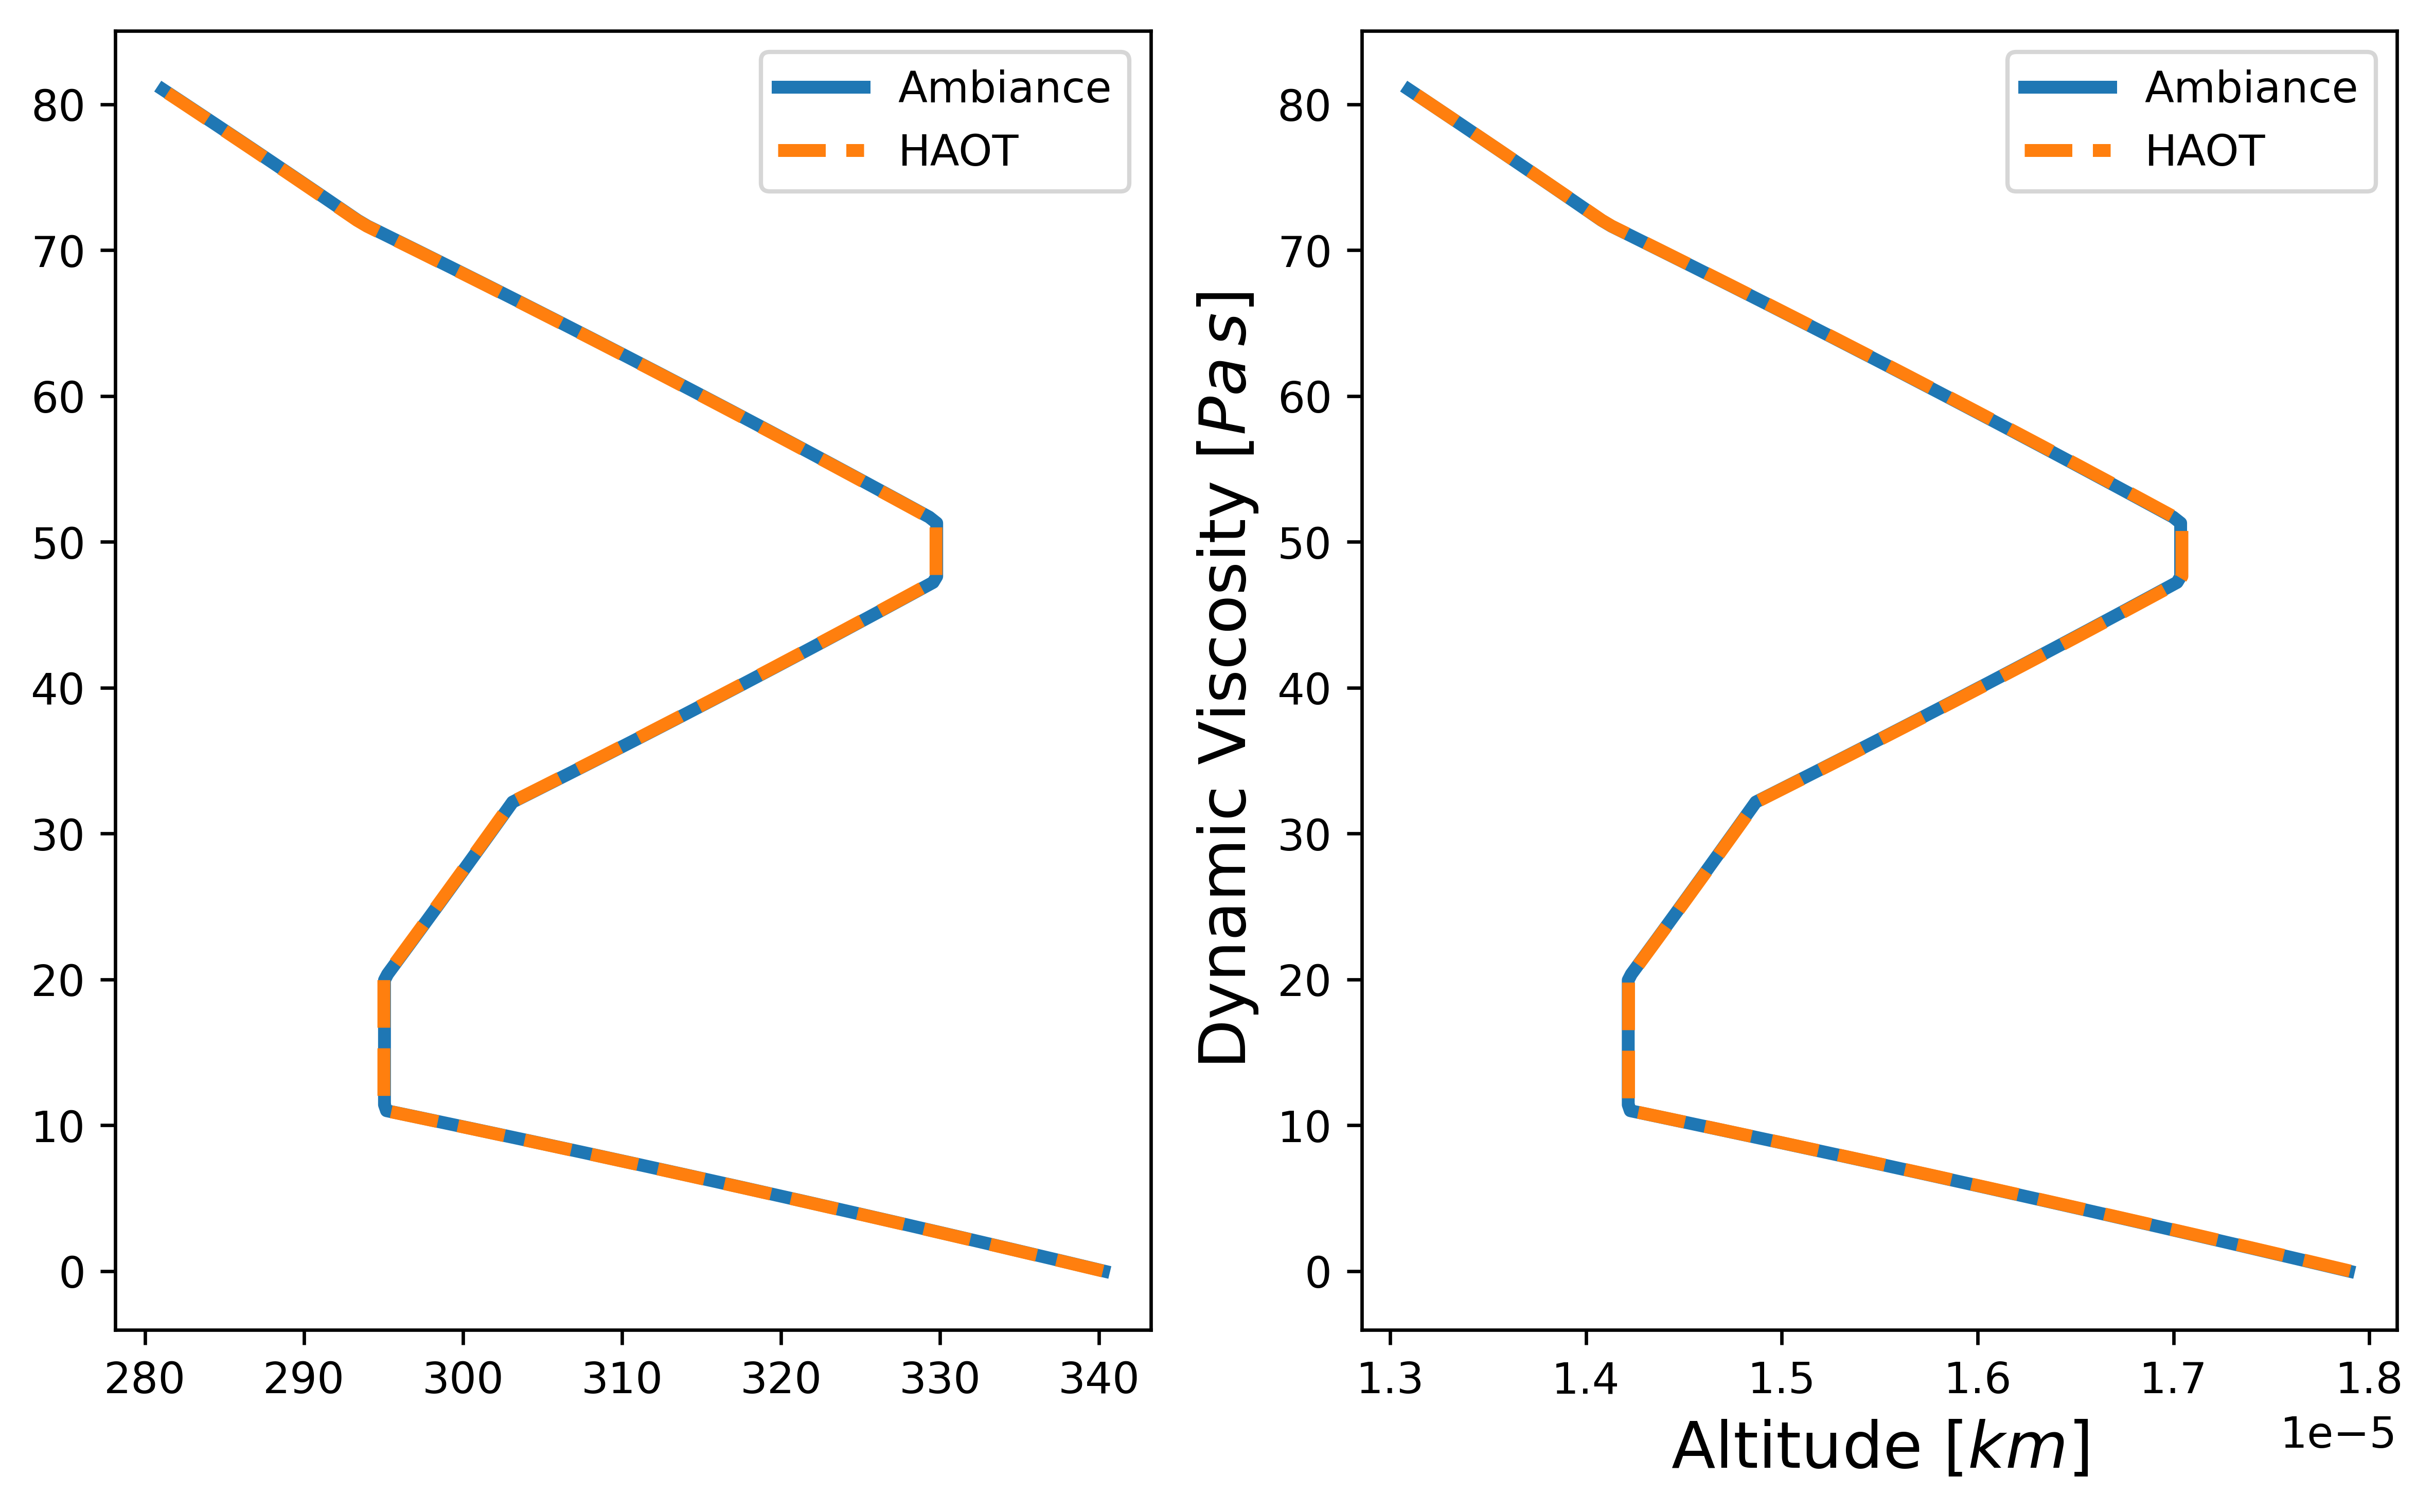
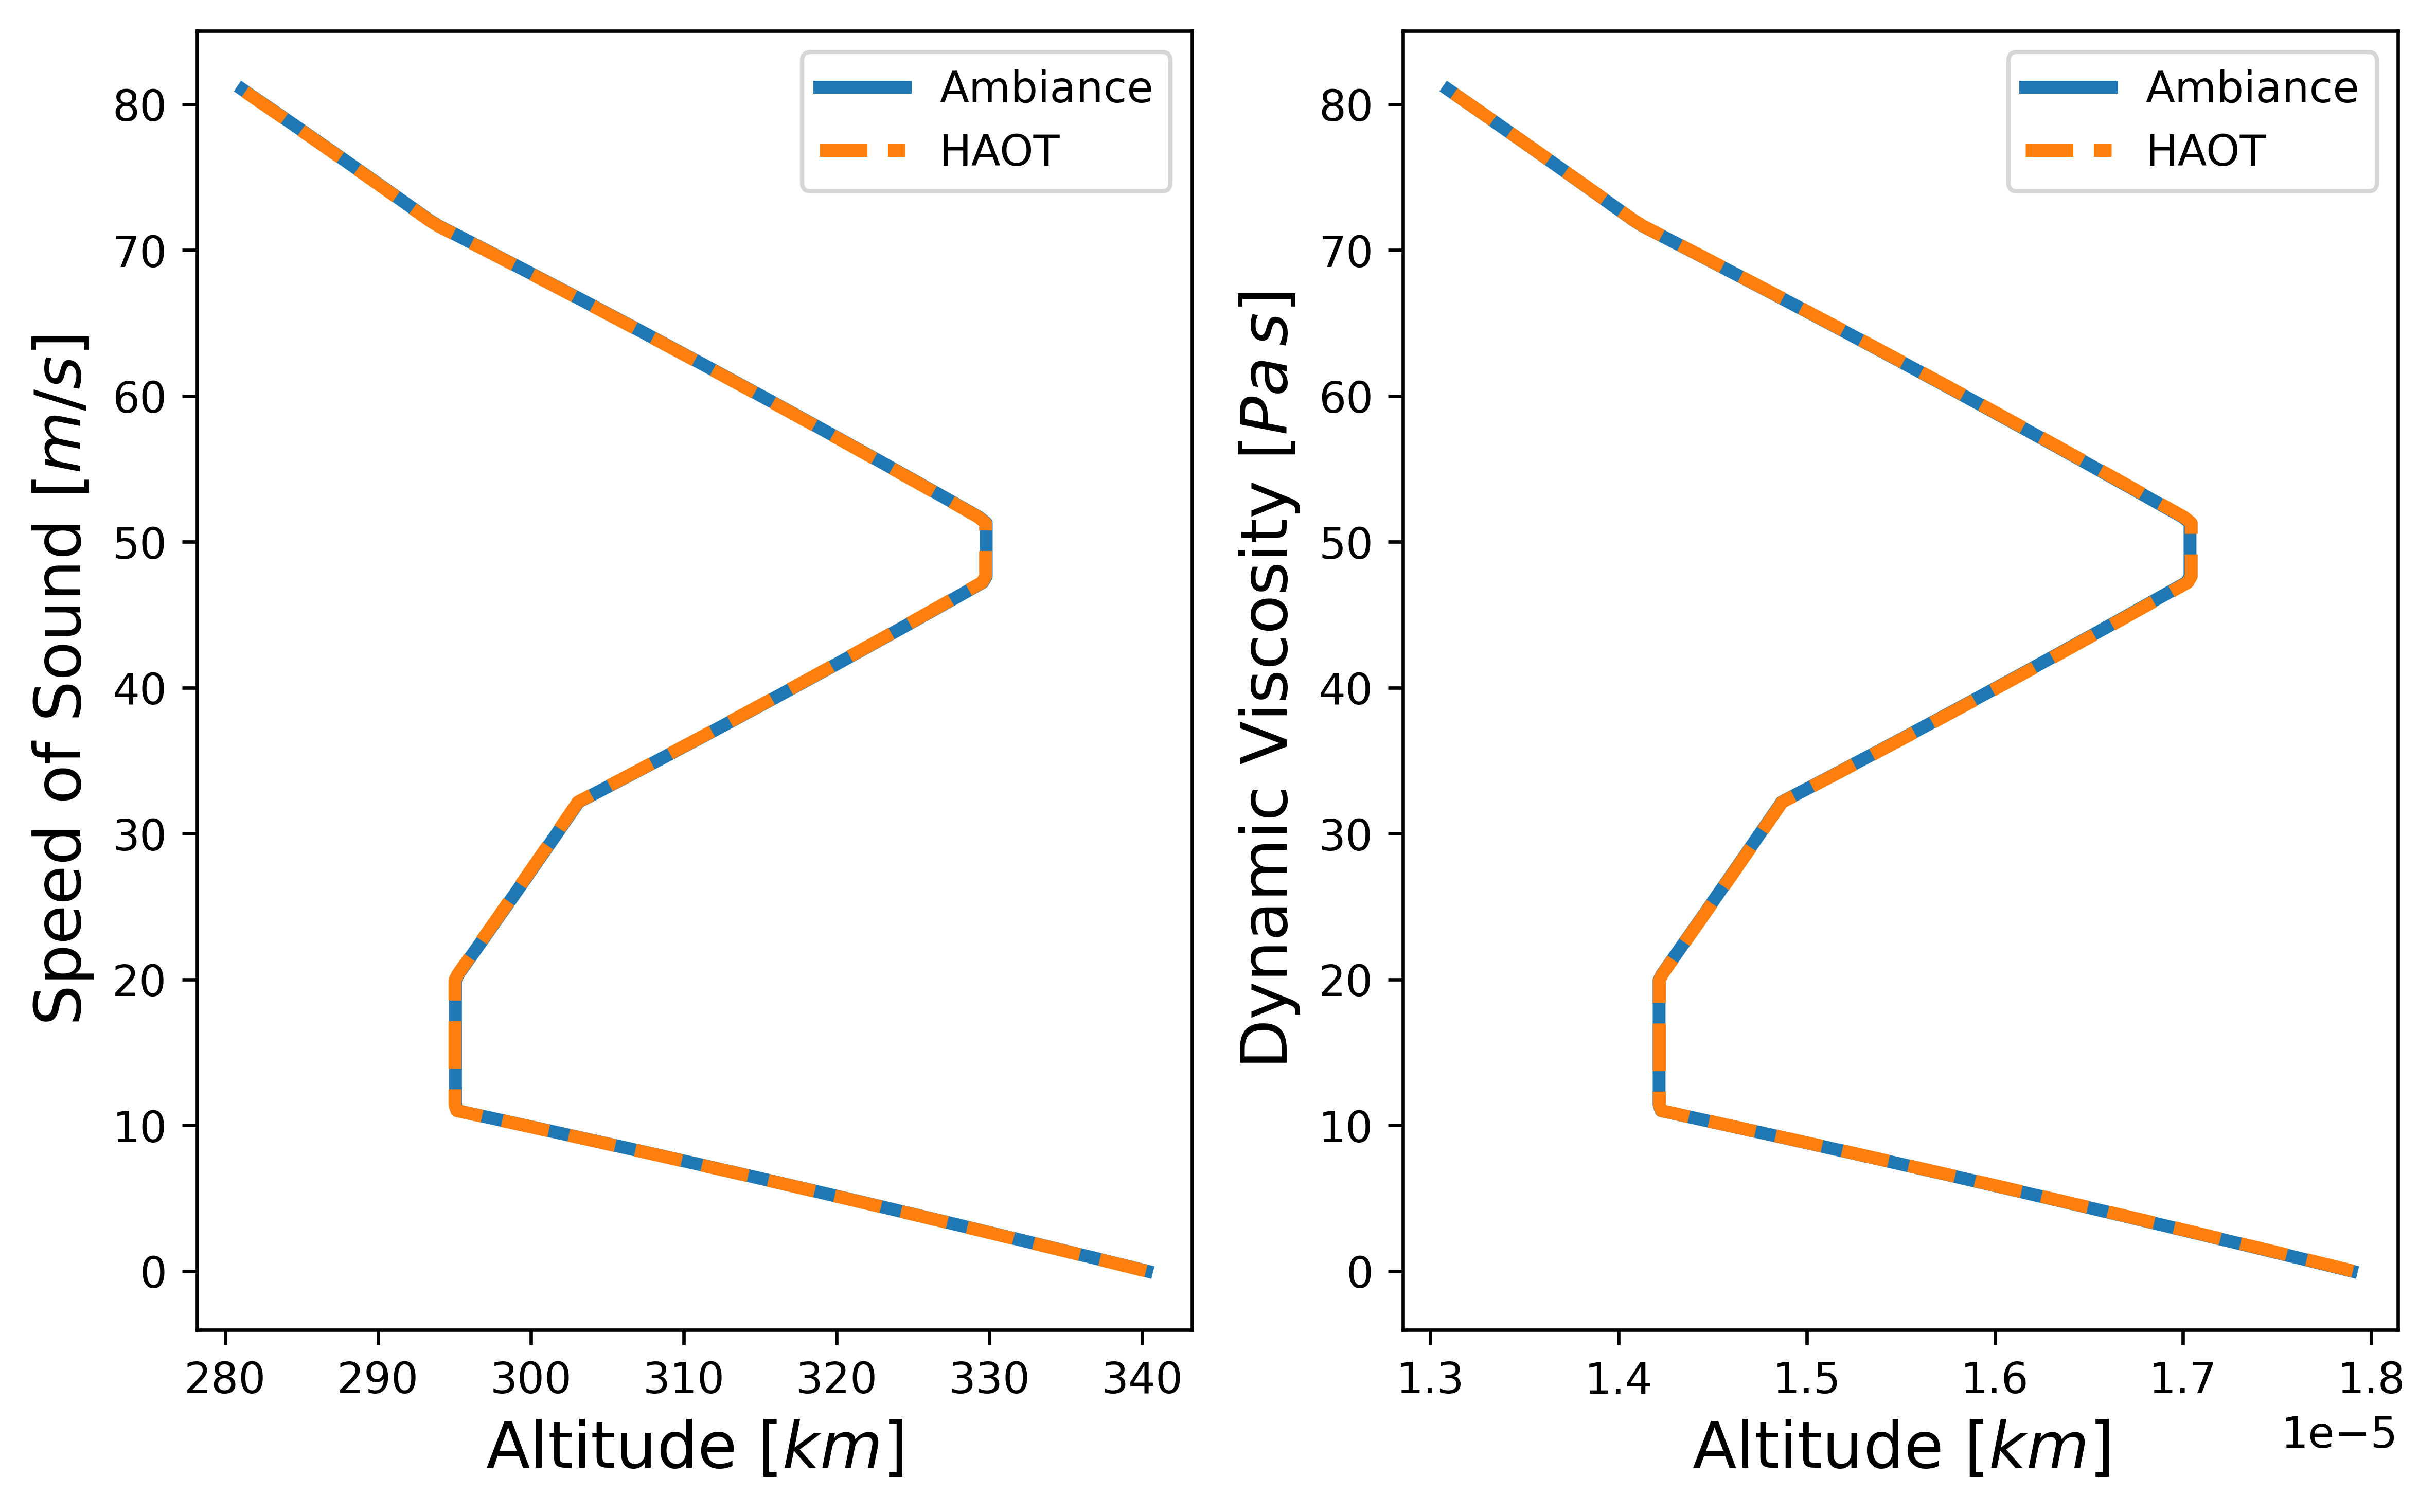
updated chapter4

diff --git a/codes/chapter4.py b/codes/chapter4.py
@@ -1,11 +1,15 @@
 from haot import aerodynamics
 from haot import optics
+from haot import quantum_mechanics
 from haot import constants
 from haot import conversions
 from ambiance import Atmosphere
 import numpy as np
 import os
 import matplotlib.pyplot as plt
+from matplotlib.ticker import MaxNLocator 
+from matplotlib.patches import Patch
+from mpl_toolkits.mplot3d import Axes3D
 
 
 import IPython
@@ -45,13 +49,13 @@ def test_aerodynamics_module(fig_config='None', output_png='None'):
                           fontsize=fig_config["axis_label_size"])
         axs[1].legend()
         
-        if output_png: 
+        if output_png is not None: 
             plt.tight_layout()
             plt.savefig(os.path.join(output_png,'aerodynamics.png'), format='png',
                 bbox_inches='tight', dpi=fig_config["dpi_size"])
             plt.close()
 
-        if not output_png:
+        if output_png is None:
             plt.show()
 
 def test_optics_module(fig_config='None', output_png='None'):
@@ -82,12 +86,95 @@ def test_optics_module(fig_config='None', output_png='None'):
         plt.legend(fontsize=fig_config['legend_size'])
         plt.xticks(fontsize=fig_config['ticks_size'])
         plt.yticks(fontsize=fig_config['ticks_size'])
-        plt.savefig(os.path.join(output_png,
+
+        if output_png is not None:
+            plt.savefig(os.path.join(output_png,
             f'kerlPolarizability_{wavelength_nm}nm.png'), format = 'png',
                     bbox_inches='tight', dpi=fig_config['dpi_size'])
-        plt.close()
+            plt.close()
+        if output_png is None:
+            plt.show()
+
+def test_quantum_mechanics_module(fig_config=None, output_png=None):
+    vibrational_number = 1 
+    rotational_number = 40
+    temperature_K = [100.0, 500.0, 1000.0]
+    molecule = ['N2', 'O2', 'NO']
+    elev_ang = 16
+    azim_ang = 40
+
+    for k in molecule:
+        # [temperature, vibrational, rotational]
+        distribution = np.zeros([np.size(temperature_K),
+                                 vibrational_number + 1,
+                                 rotational_number + 1])
+        for t, val in enumerate(temperature_K):
+            distribution[t] = quantum_mechanics.boltzmann_distribution( 
+                                                val, k, 
+                                                vibrational_number,
+                                                rotational_number, False)
+            if fig_config:
+                # Plots Distribution function
+                vib_axis = range(vibrational_number + 1)
+                rot_axis = range(rotational_number + 1)
+                vib_mesh, rot_mesh = np.meshgrid(vib_axis, rot_axis)
+                fig, ax = plt.subplots(subplot_kw={"projection": "3d"},
+                                       figsize=(fig_config['fig_width'],
+                                                fig_config['fig_height']))
+                # Color options 
+                colormaps = ['viridis', 'plasma', 'cividis']
+
+                # Plot tempeteratures
+                for i, temp in enumerate(temperature_K):
+                    cmap = plt.get_cmap(colormaps[i])
+                    surf = ax.plot_surface(vib_mesh.T, rot_mesh.T, 
+                                           distribution[i],
+                                           cmap=cmap, edgecolor='k',
+                                           alpha=0.8,
+                                           linewidth=0.5)
+                    ax.text(x=vibrational_number // 2, 
+                            y=rotational_number // (4 - i),
+                            z=np.max(distribution[i]),
+                            s=f'T = {temp} [K]', color='k', 
+                            fontsize=fig_config['legend_size'])
+
+                # Change grid and background colors
+                ax.set_facecolor('white') 
+                fig.patch.set_facecolor('white')
+                ax.grid(False)
+                ax.xaxis.set_pane_color((1.0, 1.0, 1.0, 1.0)) 
+                ax.yaxis.set_pane_color((1.0, 1.0, 1.0, 1.0))
+                ax.zaxis.set_pane_color((1.0, 1.0, 1.0, 1.0))
+
+                # 3D axis views
+                ax.view_init(elev=elev_ang, azim=azim_ang)
+
+                # Labels
+                ax.set_xlabel('Vibrational # $[\;]$',
+                               fontsize=fig_config['axis_label_size'])
+
+                ax.set_ylabel('Rotational # $[\;]$',
+                               fontsize=fig_config['axis_label_size'])
+
+                ax.set_zlabel('Boltzmann Distribution $[\;]$',
+                               fontsize=fig_config['axis_label_size'])
+
+                # Integers for axis ticks
+                ax.xaxis.set_major_locator(MaxNLocator(integer=True))
+                ax.yaxis.set_major_locator(MaxNLocator(integer=True))
 
 
+                if output_png:
+                    plt.savefig(os.path.join(output_png,
+                                f'boltzmannDistribution_{k}.png'), 
+                                format = 'png',
+                            bbox_inches='tight', 
+                            pad_inches=0.3,
+                            dpi=fig_config['dpi_size'])
+                    plt.close()
+                else:
+                    plt.show()
+            
 
 if __name__ == "__main__":
     fig_config = {}
@@ -105,6 +192,8 @@ if __name__ == "__main__":
     test_aerodynamics_module(fig_config, output_png)
 
     test_optics_module(fig_config, output_png)
+
+    test_quantum_mechanics_module(fig_config, output_png) 
 
 
 

diff --git a/src/ch4/quantum_mechanics.tex b/src/ch4/quantum_mechanics.tex
@@ -1,1 +1,24 @@
 \section{Quantum Mechanics\label{ch4:quantumMechanics}}
+\Cref{fig:harmonicBoltzmannN2,fig:harmonicBoltzmannO2,fig:harmonicBoltzmannNO}
+show the Boltzmann Distribution \cref{eq:boltzmannDistribution}, which was
+implemented using \gls{HAOT}. As expected, the Boltzmann Distribution
+demonstrates that most of the energy is concentrated in the lower energy
+levels. Additionally, the temperature has an effect on the kurtosis; as the
+temperature increases, the kurtosis decreases.
+\begin{figure}[H]
+    \makebox[\textwidth][c]{\includegraphics[width=0.65\textwidth]{chapter4/boltzmannDistribution_N2}}
+    \caption{Harmonic Boltzmann Distribution for
+    $N2$}\label{fig:harmonicBoltzmannN2}
+\end{figure}
+
+\begin{figure}[H]
+    \makebox[\textwidth][c]{\includegraphics[width=0.65\textwidth]{chapter4/boltzmannDistribution_O2}}
+    \caption{Harmonic Boltzmann Distribution for
+    $O2$}\label{fig:harmonicBoltzmannO2}
+\end{figure}
+
+\begin{figure}[H]
+    \makebox[\textwidth][c]{\includegraphics[width=0.65\textwidth]{chapter4/boltzmannDistribution_NO}}
+    \caption{Harmonic Boltzmann Distribution for
+    $NO$}\label{fig:harmonicBoltzmannNO}
+\end{figure}

diff --git a/src/ch4/chapter_4.tex b/src/ch4/chapter_4.tex
@@ -8,17 +8,19 @@ version of \gls{HAOT} includes five modules:
 
 \begin{itemize}
     \item \textbf{Aerodynamics:} Implements commonly used aerodynamic functions.
-    \item \textbf{Optics:} Implements optics equations used in hypersonic flow analysis.
-    \item \textbf{Quantum Mechanics:} Implements commonly used quantum mechanical functions for hypersonic flow applications.
-    \item \textbf{Constants:} Includes various constants, primarily spectroscopy constants, used across the different modules.
-    \item \textbf{Conversion:} Provides several conversion functions used within the package. \end{itemize}
+    \item \textbf{Optics:} Implements optics equations used in hypersonic flow
+        analysis.
+    \item \textbf{Quantum Mechanics:} Implements commonly used quantum
+        mechanical functions for hypersonic flow applications.
+    \item \textbf{Constants:} Includes various constants, primarily
+        spectroscopy constants, used across the different modules.
+    \item \textbf{Conversion:} Provides several conversion functions used
+        within the package.
+\end{itemize}
 
+Some Validations results are proved in sections below, the constants and
+conversions were validated by visual inspection.
 \input{aerodynamics}
-    This module contains the following functions:
-
-
 \input{optics}
 \input{quantum_mechanics}
-\input{constants}
-\input{conversions}
     

diff --git a/src/ch4/optics.tex b/src/ch4/optics.tex
@@ -1,8 +1,9 @@
 \section{Optics\label{ch4:optics}}
     \Cref{fig:kerlPolarizabilityT} shows the results of curve fitting developed
     by Kerl \cite{Kerl1992}. This fitting uses constants defined in
-    \cref{tab:kerlConstants}. This constants are accessible in the
-    \textit{constants} module from the \gls{HAOT} package.
+    \cref{tab:kerlConstants}. These constants are accessible in the
+    \textit{constants} module from the \gls{HAOT} package and results match
+    published results by Kerl \cite{Kerl1992}.
     \begin{equation}\label{eq:kerlFitting}
         \alpha(\omega,T) = \frac{\alpha(0,0)}{1 -
         \Parenthesis{\frac{\omega}{\omega_0}}^2} \Parenthesis{1 + bT + cT^2}

diff --git a/src/ch2/quantumOverview.tex b/src/ch2/quantumOverview.tex
@@ -277,9 +277,9 @@
     The Boltzmann distribution, which describes the particle distribution over
     different energy states at thermal equilibrium, is applied to calculate the
     energy levels as a function of the vibrational quantum number. This
-    probability distribution is given in \cref{eq:boltzmanDistribution}.
+    probability distribution is given in \cref{eq:boltzmannDistribution}.
  
-    \begin{equation}\label{eq:boltzmanDistribution}
+    \begin{equation}\label{eq:boltzmannDistribution}
         p_{i,j} = \frac{g_je^{-\beta E_{v,J}}}{Z} = \frac{\Parenthesis{2J +
         1}e^{-\beta\Parenthesis{\varepsilon_i +
         \varepsilon_j}}}{\sum_{v,J}\Parenthesis{2J +